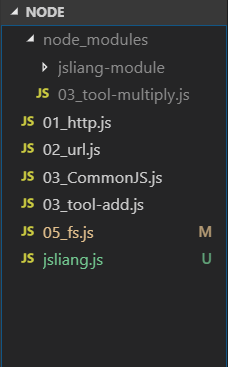
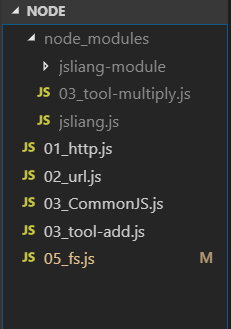
Node 基础

diff --git a/other-library/Node/NodeBase.md b/other-library/Node/NodeBase.md
@@ -992,6 +992,24 @@ fs.rename('index.js', 'jsliang.js', (err) => {
 })
 ```
 
+&emsp;当然，如果 `fs.rename` 还有更劲爆的功能：剪切
+
+> 05_fs.js
+
+```
+let fs = require('fs');
+
+// 7. fs.rename 重命名
+fs.rename('jsliang.js', 'node_modules/jsliang.js', (err) => {
+  if(err) {
+    console.log(err);
+    return false;
+  } else {
+    console.log("剪切成功！");
+  }
+})
+```
+
 &emsp;OK，通通搞定，现在目录变成了：
 
 ![图](../../public-repertory/img/other-node-NodeBase-6.png)
